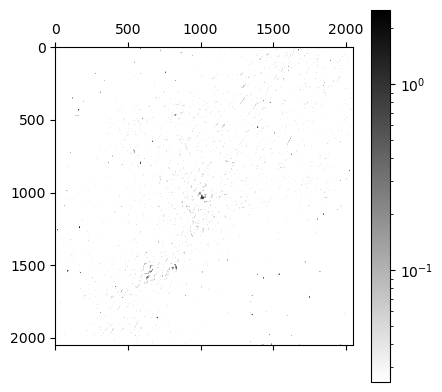
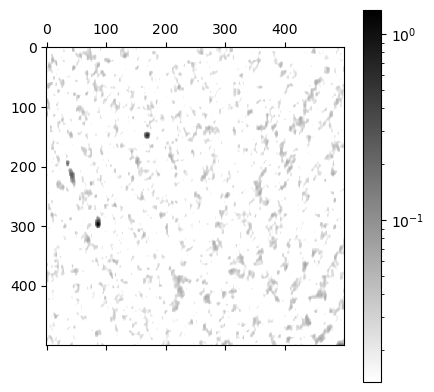
Added an image and a subimage. Image from previous commit was called subimage_of_GC.png, should have been called image_of_GC.png

diff --git a/_episodes/02-cupy.md b/_episodes/02-cupy.md
@@ -354,4 +354,47 @@ The linear convolution is actually performed on the GPU, which also results in a
 
 Without much effort, we obtained a 18 times speedup. 
 
+# Expanding the shortcut, image processing for astronomy
+
+In this section, we will perform the four major steps in image processing for astronomy: determination of background characteristics, segmentation, connected component labelling and source measurements. 
+
+Start by importing a 2048² pixels image of the Galactic Center, an image made from observations by the Indian Giant Metrewave Radio Telescope (GMRT) at 150 MHz. 
+
+~~~
+from astropy.io import fits
+
+with fits.open("GMRT_image_of_Galactic_Center.fits") as hdul:
+    data = hdul[0].data.byteswap().newbyteorder()
+~~~
+{: .language-python}
+
+The latter two methods are needed to convert byte ordering from big endian to little endian.
+Let us have a look at part of this image.
+
+~~~
+from matplotlib.colors import LogNorm
+
+maxim = data.max()
+
+pyl.matshow(data, cmap=pyl.cm.gray_r, norm=LogNorm(vmin = maxim/100, vmax=maxim))
+pyl.colorbar()
+~~~
+{: .language-python}
+
+![Image of GC](../fig/mage_of_GC)
+
+Now that that does not show the level of detail that we are looking for. Let us zoom in a bit.
+
+~~~
+subimage = data[500:1000, 500:1000]
+maxim_sub = subimage.max()
+pyl.matshow(subimage, cmap=pyl.cm.gray_r, \
+            norm=LogNorm(vmin = maxim_sub/100, vmax=maxim_sub))
+pyl.colorbar()
+~~~
+{: .language-python}
+
+which shows us a few sources but also the background noise:
+
+
 {% include links.md %}
